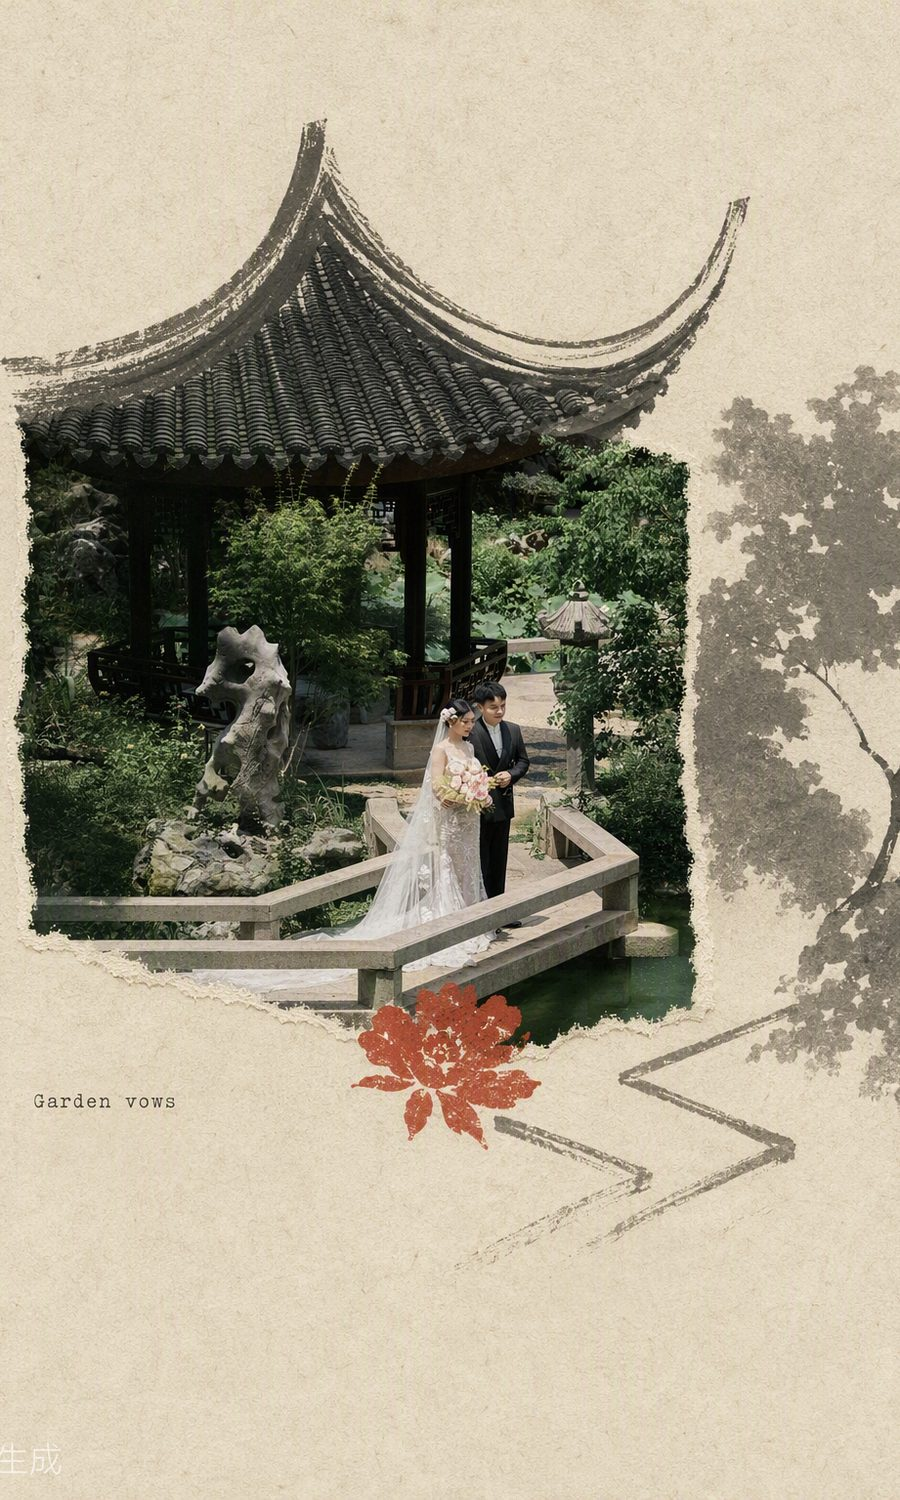
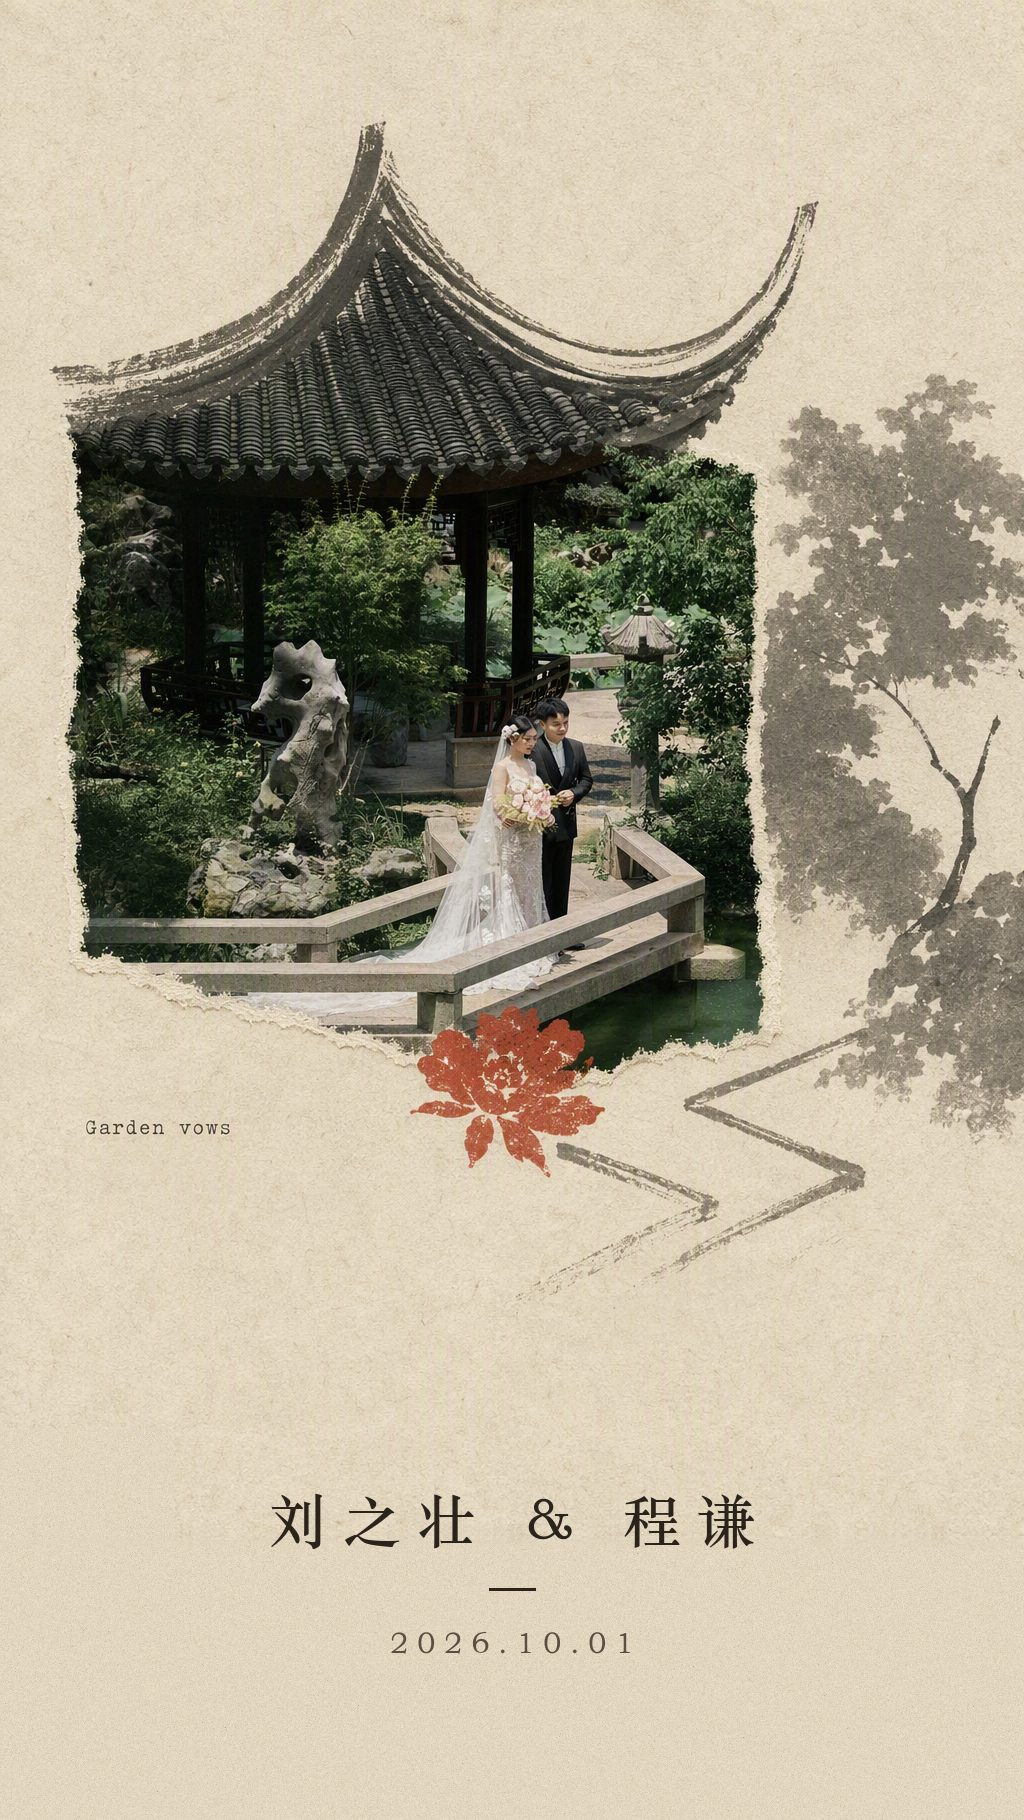
Full-screen cover: 9:16 poster with names and date baked in

diff --git a/index.html b/index.html
@@ -16,7 +16,7 @@
 <link rel="preconnect" href="https://fonts.loli.net" crossorigin>
 <link rel="dns-prefetch" href="https://cdn.jsdelivr.net">
 <link rel="preconnect" href="https://cdn.jsdelivr.net" crossorigin>
-<link rel="preload" as="image" href="https://cdn.jsdelivr.net/gh/lzz66/wedding-invitation@main/artistic_photos/art_cover.jpg">
+<link rel="preload" as="image" href="https://cdn.jsdelivr.net/gh/lzz66/wedding-invitation@main/artistic_photos/art_cover.jpg?v=9">
 <link href="https://fonts.loli.net/css2?family=Noto+Serif+SC:wght@300;400;600&family=Crimson+Text:ital,wght@0,400;0,600;1,400&display=swap" rel="stylesheet">
 <style>
 /* ===== ZINE CANVAS SYSTEM ===== */
@@ -186,22 +186,25 @@ body::before {
 }
 
 /* ===== COVER PAGE ===== */
+.cover-page {
+  padding: 0;
+}
+.cover-page .reveal {
+  width: 100%;
+  height: 100%;
+}
 .cover-photo {
-  width: 72%;
-  max-width: 320px;
-  margin: 0 auto;
+  width: 100%;
+  max-width: none;
+  height: 100vh;
+  height: 100svh;
+  margin: 0;
 }
 .cover-photo .torn-img {
   width: 100%;
-  height: auto;
-}
-.cover-names {
-  margin-top: 40px;
-  text-align: center;
-}
-.cover-date {
-  margin-top: 16px;
-  text-align: center;
+  height: 100%;
+  object-fit: cover;
+  object-position: center 22%;
 }
 
 /* ===== INVITATION PAGE ===== */
@@ -439,7 +442,6 @@ body::before {
 @media (min-width: 768px) {
   .page { padding: 64px 40px; }
   .scene-page { max-width: 480px; margin: 0 auto; }
-  .cover-photo { max-width: 360px; }
   .pair-grid { flex-direction: row; gap: 18px; align-items: flex-start; }
   .pair-item { max-width: 224px; }
 }
@@ -463,22 +465,10 @@ body::before {
   <div class="loader-text">请柬</div>
 </div>
 
-<!-- ===== PAGE 1: COVER ===== -->
-<section class="page">
-  <div class="reveal">
-    <div class="cover-photo torn-container">
-
-      <img src="https://cdn.jsdelivr.net/gh/lzz66/wedding-invitation@main/artistic_photos/art_cover.jpg?v=8" class="torn-img" fetchpriority="high" decoding="async" alt="cover">
-    </div>
-    <div class="cover-names">
-      <div class="type-display">刘之壮</div>
-      <div class="type-caption" style="margin:8px 0;">&amp;</div>
-      <div class="type-display">程谦</div>
-    </div>
-    <div class="cover-date">
-      <div class="rule-short"></div>
-      <div class="type-micro">2026.10.01</div>
-    </div>
+<!-- ===== PAGE 1: COVER (full-screen poster with names & date baked in) ===== -->
+<section class="page cover-page">
+  <div class="cover-photo torn-container reveal">
+    <img src="https://cdn.jsdelivr.net/gh/lzz66/wedding-invitation@main/artistic_photos/art_cover.jpg?v=9" class="torn-img" fetchpriority="high" decoding="async" alt="刘之壮与程谦的婚礼邀请封面">
   </div>
 </section>
 
